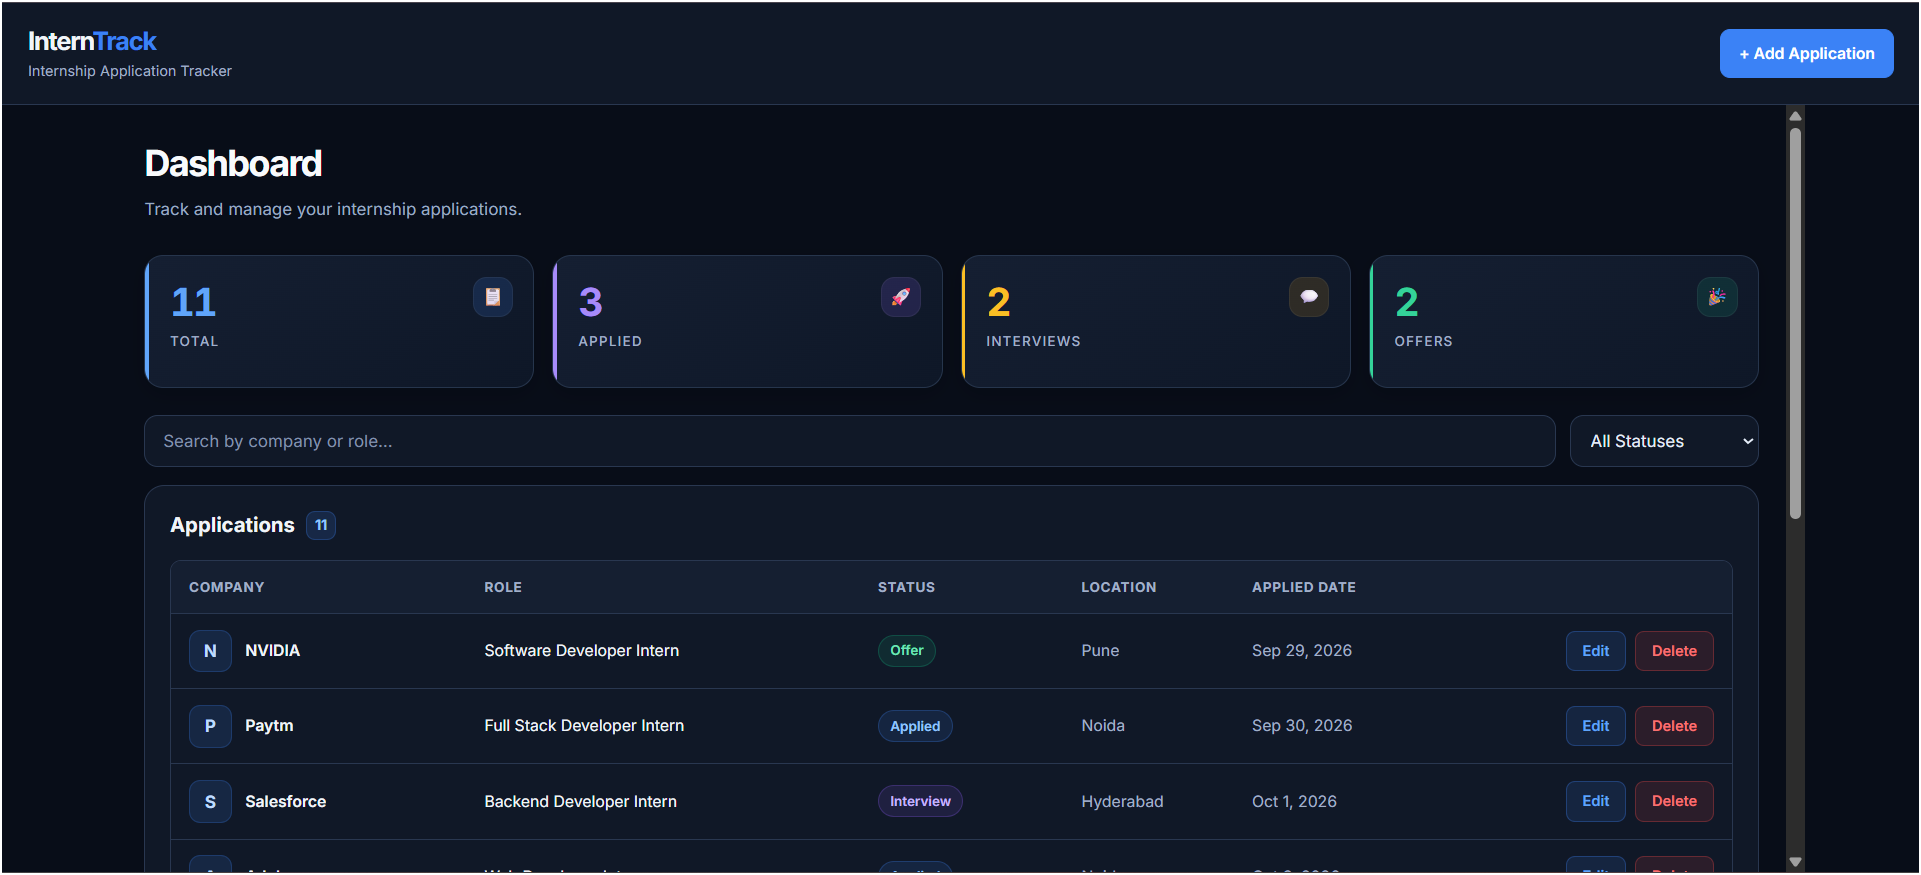
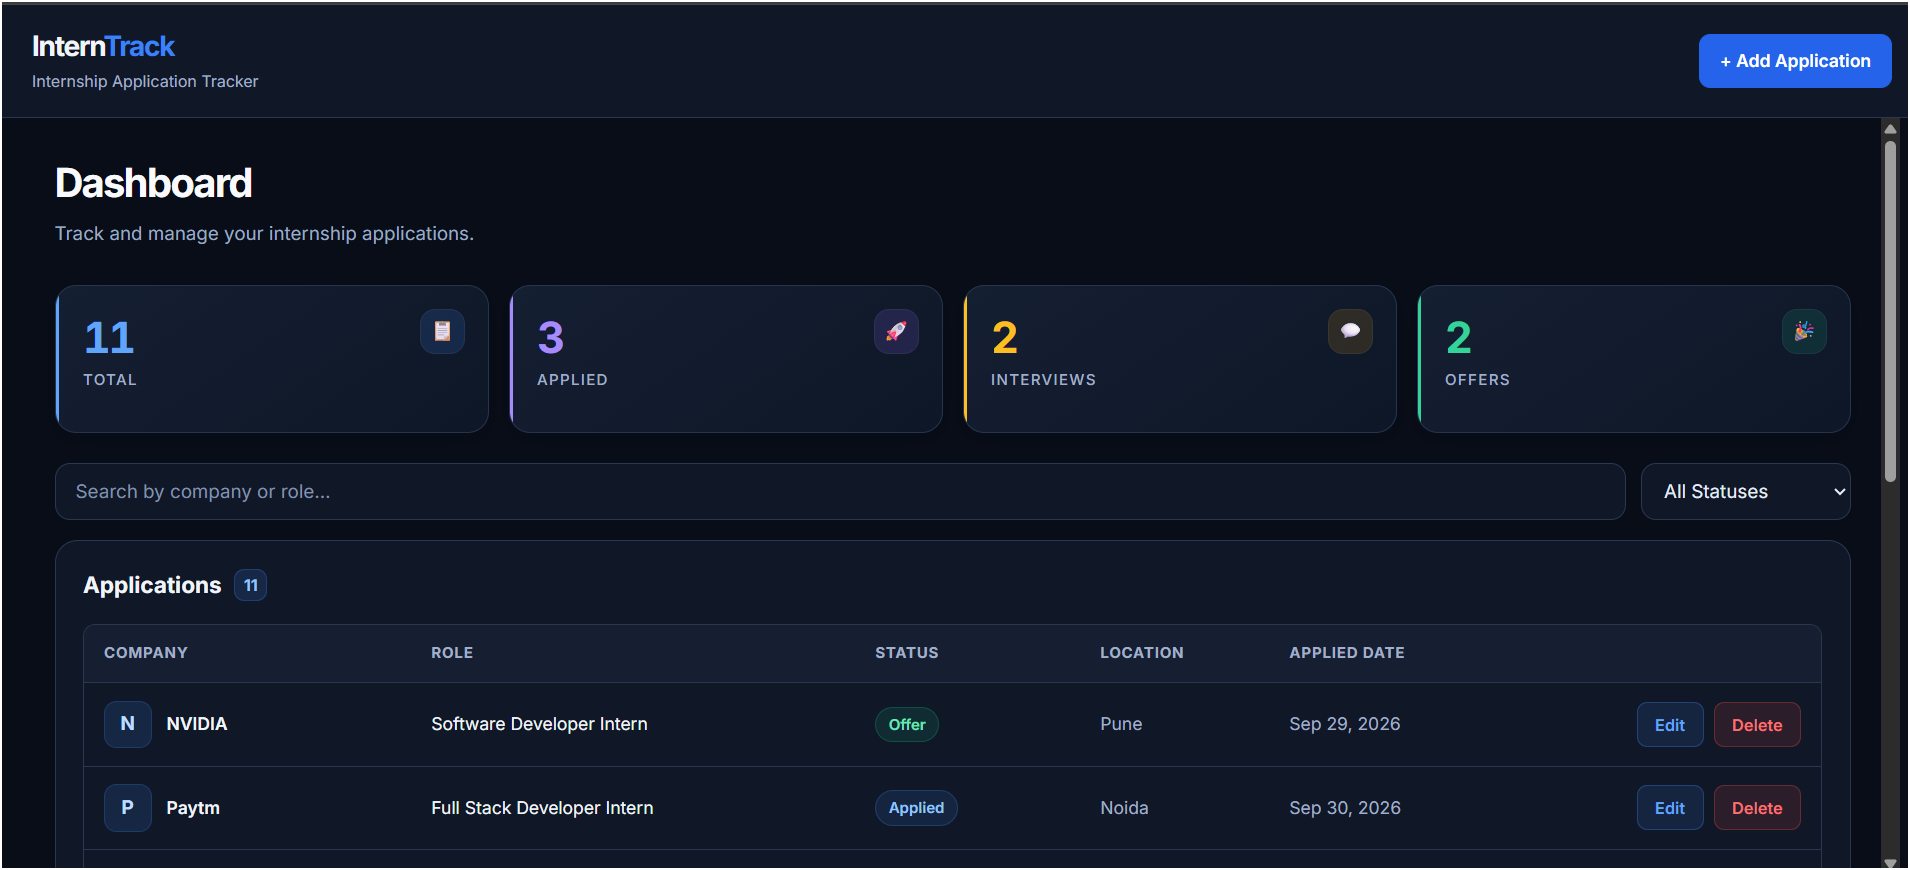
refactor: whitelist update fields, simplify stats, harden error handler

diff --git a/server/controllers/applicationController.js b/server/controllers/applicationController.js
@@ -3,6 +3,12 @@ const Application = require('../models/Application');
 const { sendSuccess, sendError } = require('../utils/apiResponse');
 const escapeRegex = require('../utils/escapeRegex');
 
+const ALLOWED_FIELDS = ['company', 'role', 'status', 'appliedDate', 'deadline', 'jobUrl', 'location', 'salary', 'notes'];
+
+// Only known fields are accepted; ignores _id, timestamps and Mongo operators
+const pickFields = (body) =>
+  Object.fromEntries(Object.entries(body).filter(([key]) => ALLOWED_FIELDS.includes(key)));
+
 const getAllApplications = async (req, res, next) => {
   try {
     const { search, status } = req.query;
@@ -58,7 +64,7 @@ const getApplicationById = async (req, res, next) => {
 
 const createApplication = async (req, res, next) => {
   try {
-    const application = await Application.create(req.body);
+    const application = await Application.create(pickFields(req.body));
     return sendSuccess(res, application, 'Application created successfully', 201);
   } catch (error) {
     next(error);
@@ -72,9 +78,6 @@ const updateApplication = async (req, res, next) => {
     if (!mongoose.Types.ObjectId.isValid(id)) {
       return sendError(res, 'Invalid application ID', 400);
     }
-
-    // Strip immutable fields so a client cannot overwrite Mongoose-managed metadata
-    const { _id, createdAt, updatedAt, ...updateData } = req.body;
 
     const application = await Application.findByIdAndUpdate(
       id,
@@ -149,30 +152,22 @@ const deleteApplication = async (req, res, next) => {
 
 const getStats = async (req, res, next) => {
   try {
-    // Single aggregation pass: group by status and count each bucket
-    const [totalResult, statusCounts] = await Promise.all([
-      Application.countDocuments(),
-      Application.aggregate([
-        { $group: { _id: '$status', count: { $sum: 1 } } },
-      ]),
+    const statusCounts = await Application.aggregate([
+      { $group: { _id: '$status', count: { $sum: 1 } } },
     ]);
 
-    // Build byStatus with a guaranteed 0 for every defined status,
-    // then overwrite with real counts from the aggregation result
-    const byStatus = Application.STATUSES.reduce((acc, s) => {
-      acc[s] = 0;
-      return acc;
-    }, {});
+    // Start every status at 0 so empty statuses still appear in the response
+    const byStatus = Object.fromEntries(Application.STATUSES.map((s) => [s, 0]));
+    let total = 0;
 
     statusCounts.forEach(({ _id, count }) => {
-      if (_id in byStatus) byStatus[_id] = count;
+      if (_id in byStatus) {
+        byStatus[_id] = count;
+        total += count;
+      }
     });
 
-    return sendSuccess(
-      res,
-      { total: totalResult, byStatus },
-      'Statistics retrieved successfully'
-    );
+    return sendSuccess(res, { total, byStatus }, 'Statistics retrieved successfully');
   } catch (error) {
     next(error);
   }

diff --git a/server/middleware/errorHandler.js b/server/middleware/errorHandler.js
@@ -29,15 +29,9 @@ const errorHandler = (err, req, res, next) => {
     message = `Invalid value for field: ${err.path}`;
   }
 
-  // Duplicate key (not used in MVP but safe to handle early)
-  if (err.code === 11000) {
-    statusCode = 409;
-    const field = Object.keys(err.keyValue)[0];
-    message = `Duplicate value for field: ${field}`;
-  }
-
-  if (process.env.NODE_ENV === 'development') {
+    if (statusCode >= 500) {
     console.error('[Error]', err);
+    if (process.env.NODE_ENV === 'production') message = 'Internal Server Error';
   }
 
   res.status(statusCode).json({
